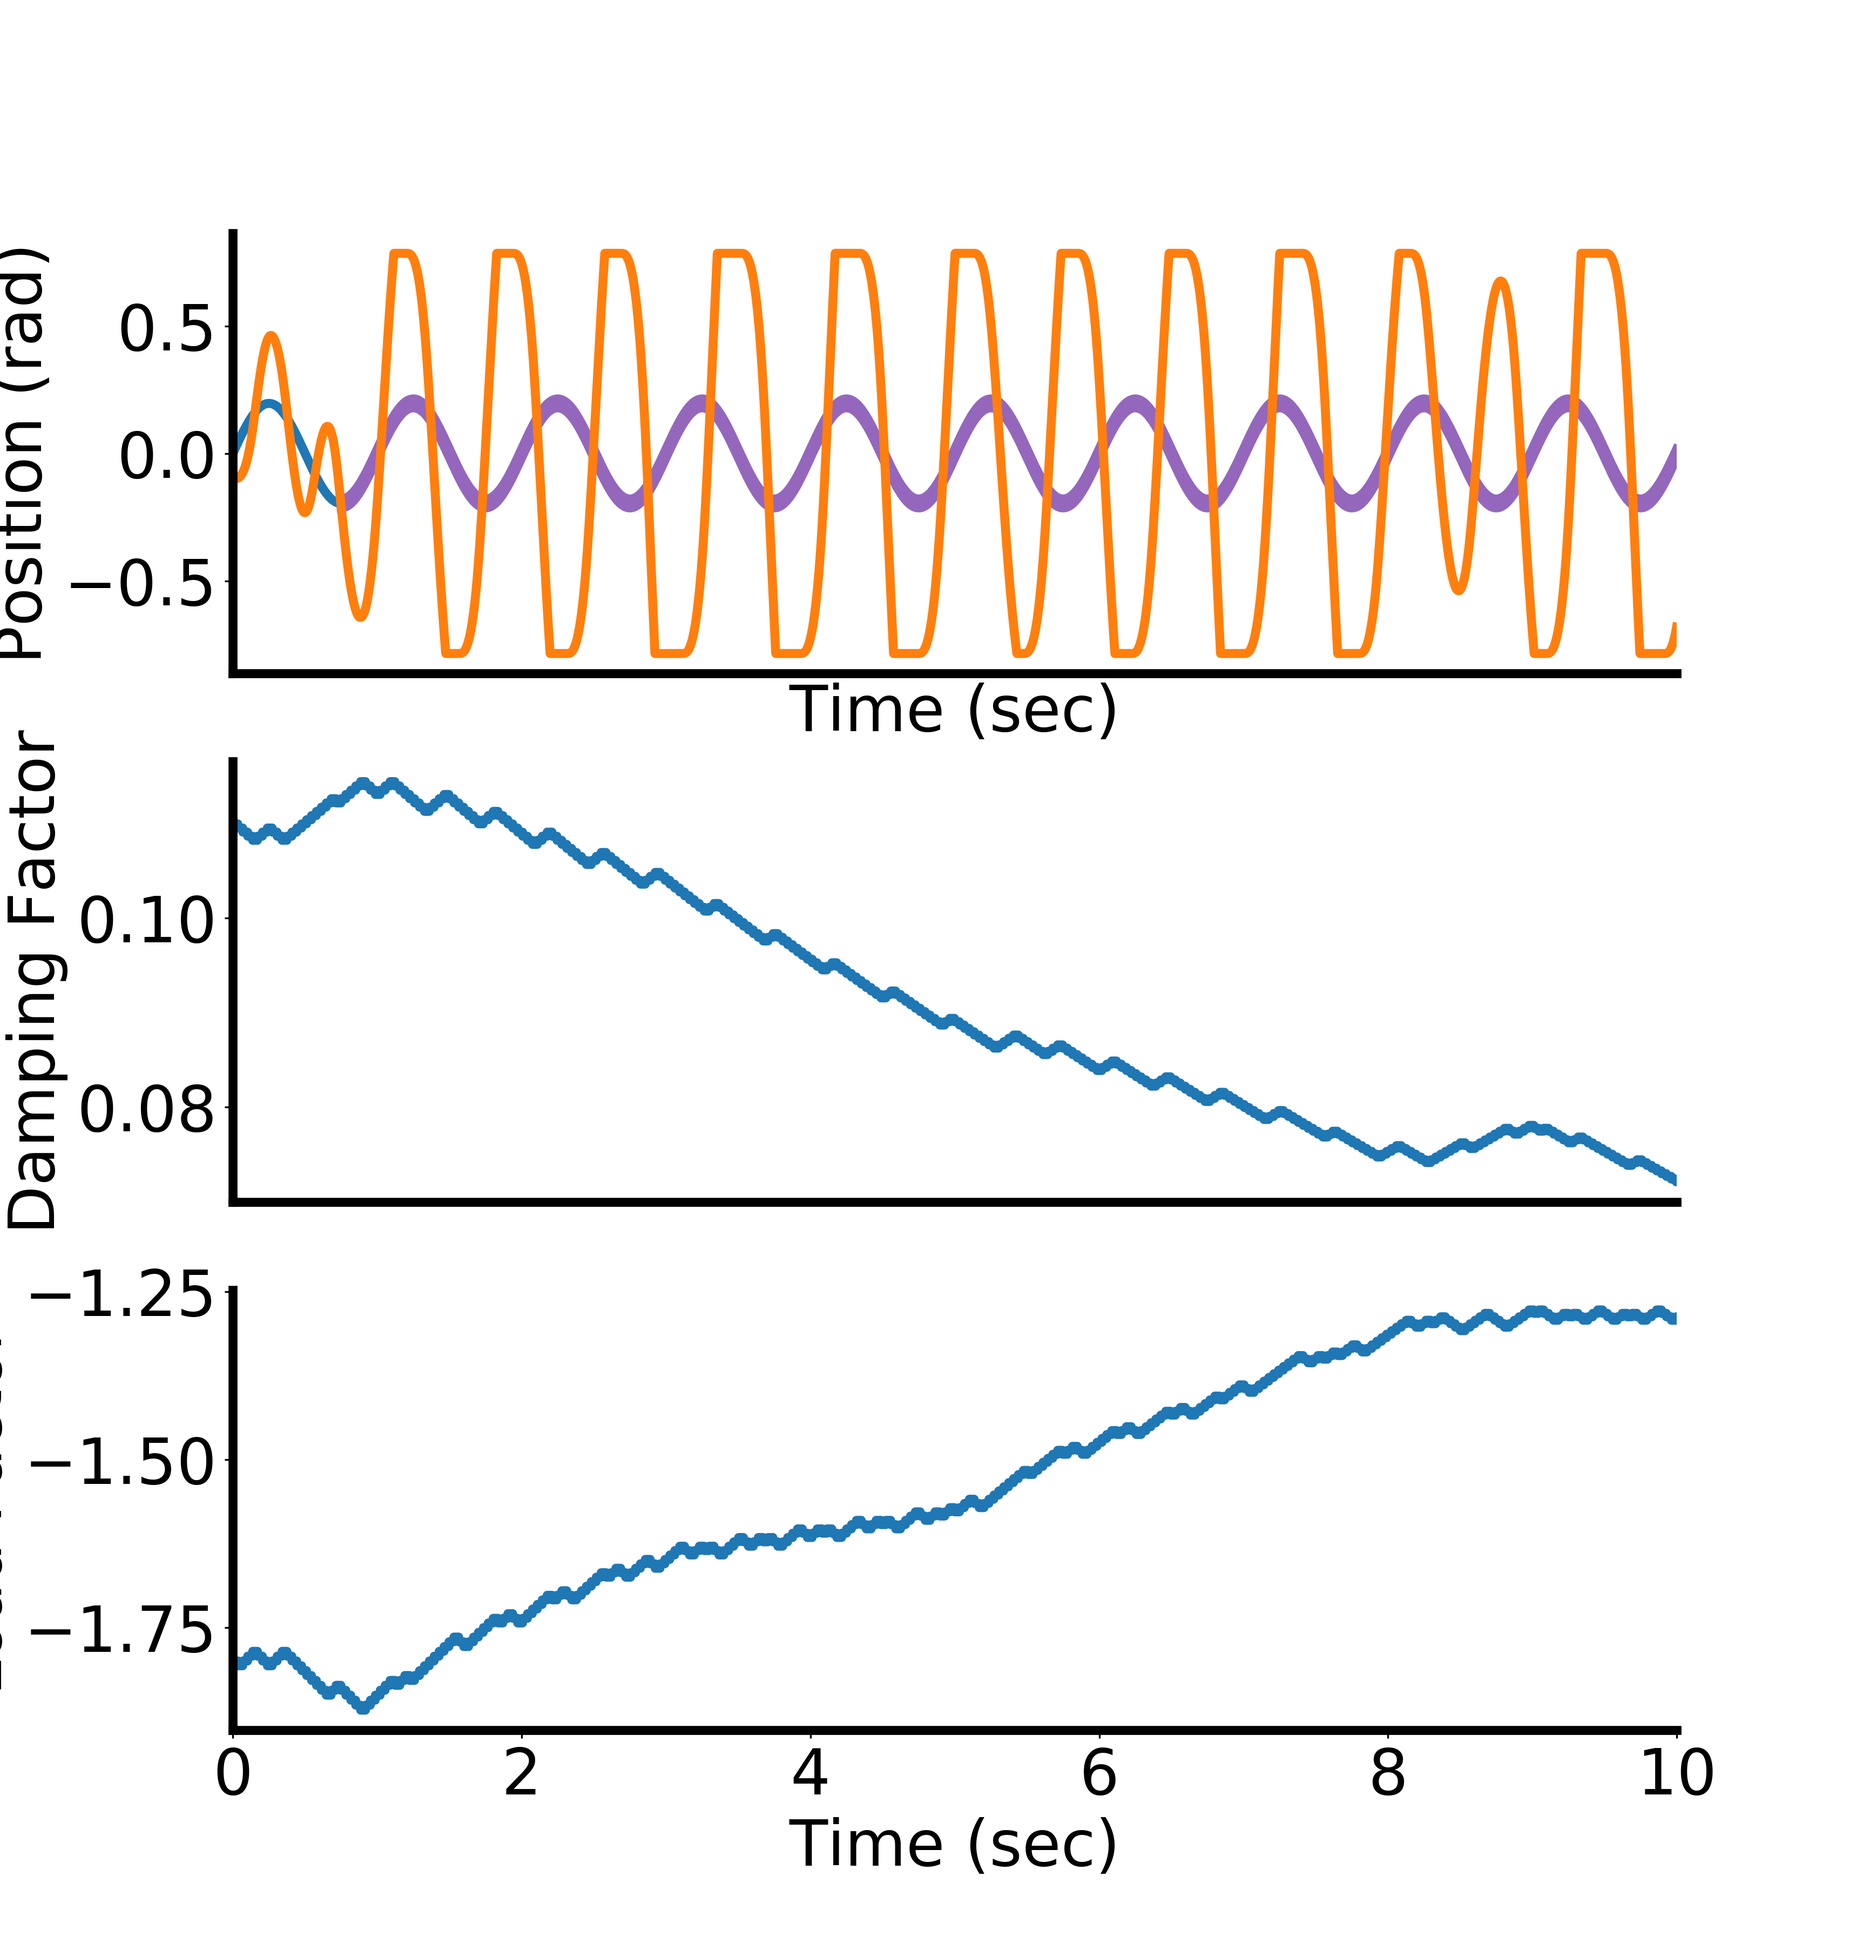
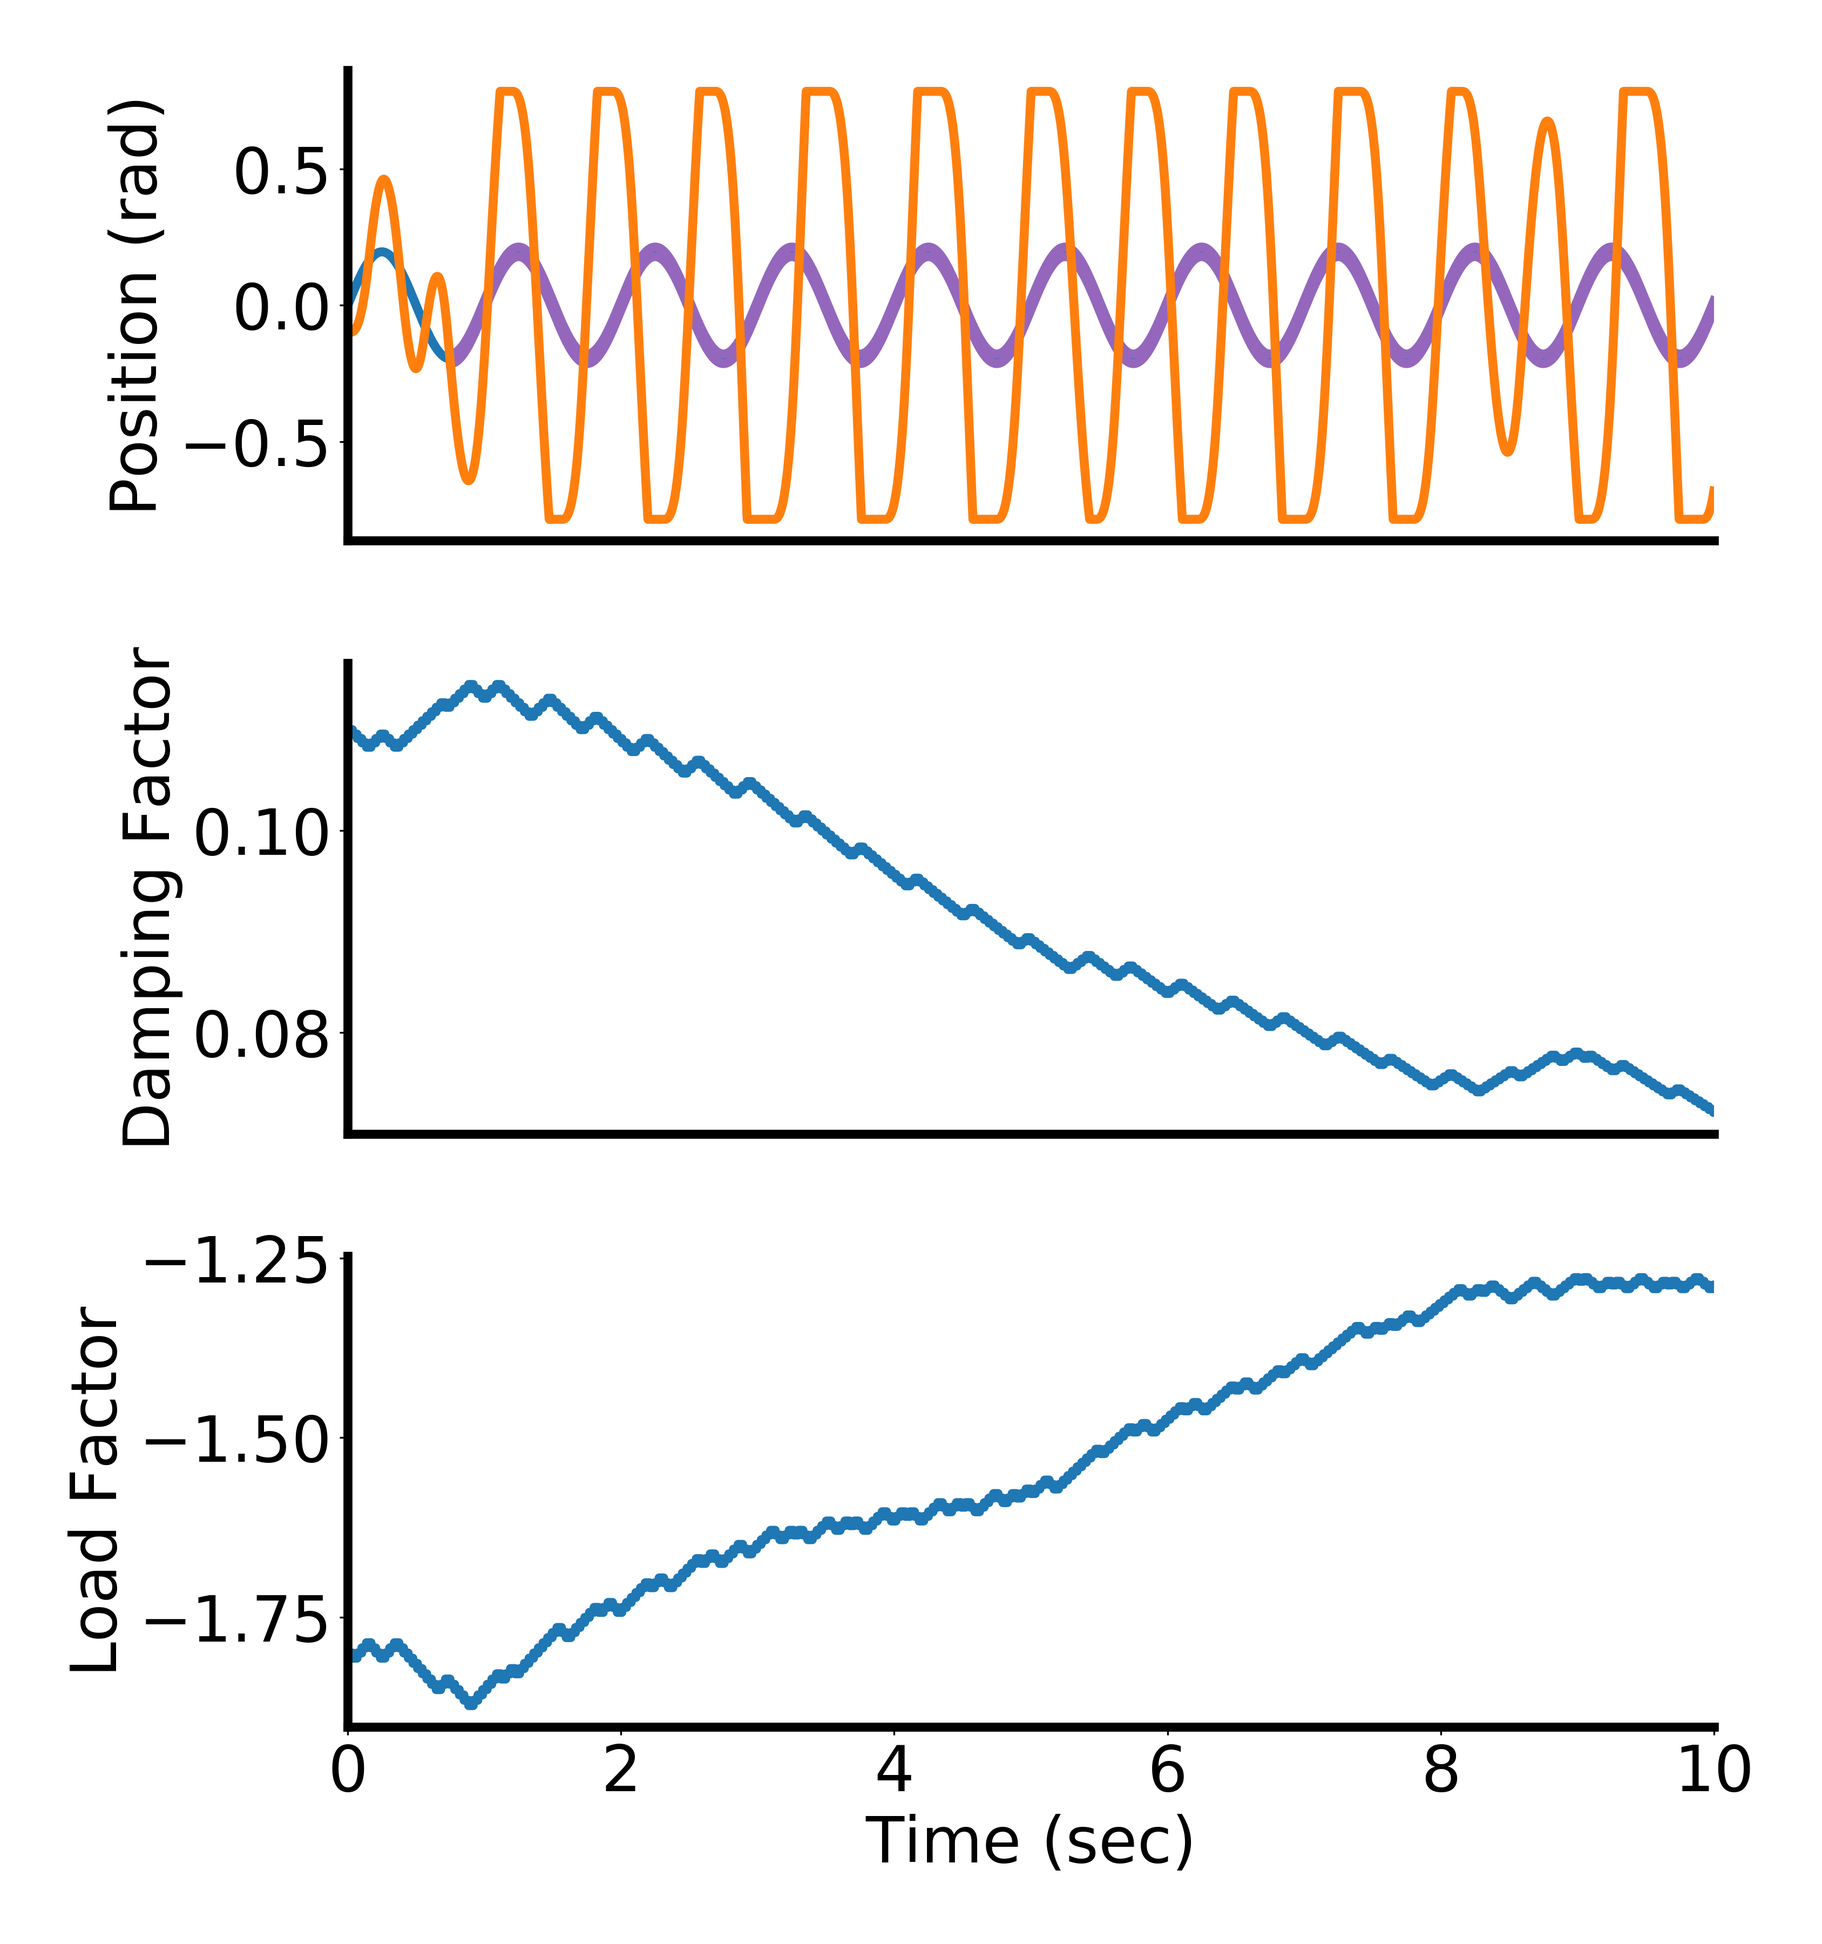
Fix some layout issues

diff --git a/Poster/simple_mass_model.py b/Poster/simple_mass_model.py
@@ -1029,7 +1029,8 @@ if __name__ == '__main__':
     desired_state = np.zeros((time.shape[0], state_start.shape[0],))
 
     # Try following a sin curve
-    period = 2
+    period = 10
+    print('Running with a desired period of %.1f' % (period,))
     adjust = (pi * 2) / period 
     desired_state[:, 0] = MAX_AMPLITUDE * np.sin(time * adjust)
     desired_state[:, 1] = (MAX_AMPLITUDE * adjust) * np.cos(time * adjust)
@@ -1039,12 +1040,10 @@ if __name__ == '__main__':
     plt_index = 0
 
     if plot_position:
-        fig = plt.figure(figsize=(11.5, 12), dpi=300)
+        fig = plt.figure(figsize=(11.25, 12), dpi=300)
         ax_pos = fig.add_subplot(3, 1, 1)
         ax_pos.set_xlim(0, 10)
         ax_pos.set_xticks([])
-        # ax_pos.set_yticks([])
-        # ax_pos.set_xlabel('Strain')
         ax_pos.set_ylabel('Pressure (kPa)')
         ax_pos.spines['right'].set_color('none')
         ax_pos.spines['left'].set_linewidth(linewidth)
@@ -1058,7 +1057,6 @@ if __name__ == '__main__':
         if plt_index == 2:
             titlte = titlte % 'Acceleration'
         ax_pos.set_ylabel('Position (rad)')
-        ax_pos.set_xlabel('Time (sec)')
         ax_pos.plot(time,  desired_state[:,plt_index], 
             color='tab:blue', label='Desired State', linewidth=linewidth)
         if plt_index == 0:
@@ -1100,7 +1098,7 @@ if __name__ == '__main__':
         ax_damping.set_ylabel('Damping Factor')
         ax_damping.set_xlim(0, 10)
         ax_damping.set_xticks([])
-        ax_damping.set_yticks([0.05, 0.1])
+        # ax_damping.set_yticks([0.05, 0.1])
         ax_damping.spines['right'].set_color('none')
         ax_damping.spines['left'].set_linewidth(linewidth)
         ax_damping.spines['top'].set_color('none')
@@ -1116,6 +1114,7 @@ if __name__ == '__main__':
         ax_cons.spines['bottom'].set_linewidth(linewidth)
         # ax_pos.legend()
         print('show for the dough')
+        plt.tight_layout()
         plt.savefig('FigStateTracking%02d.png' % (period,))
         # plt.show()
         print('all done')
